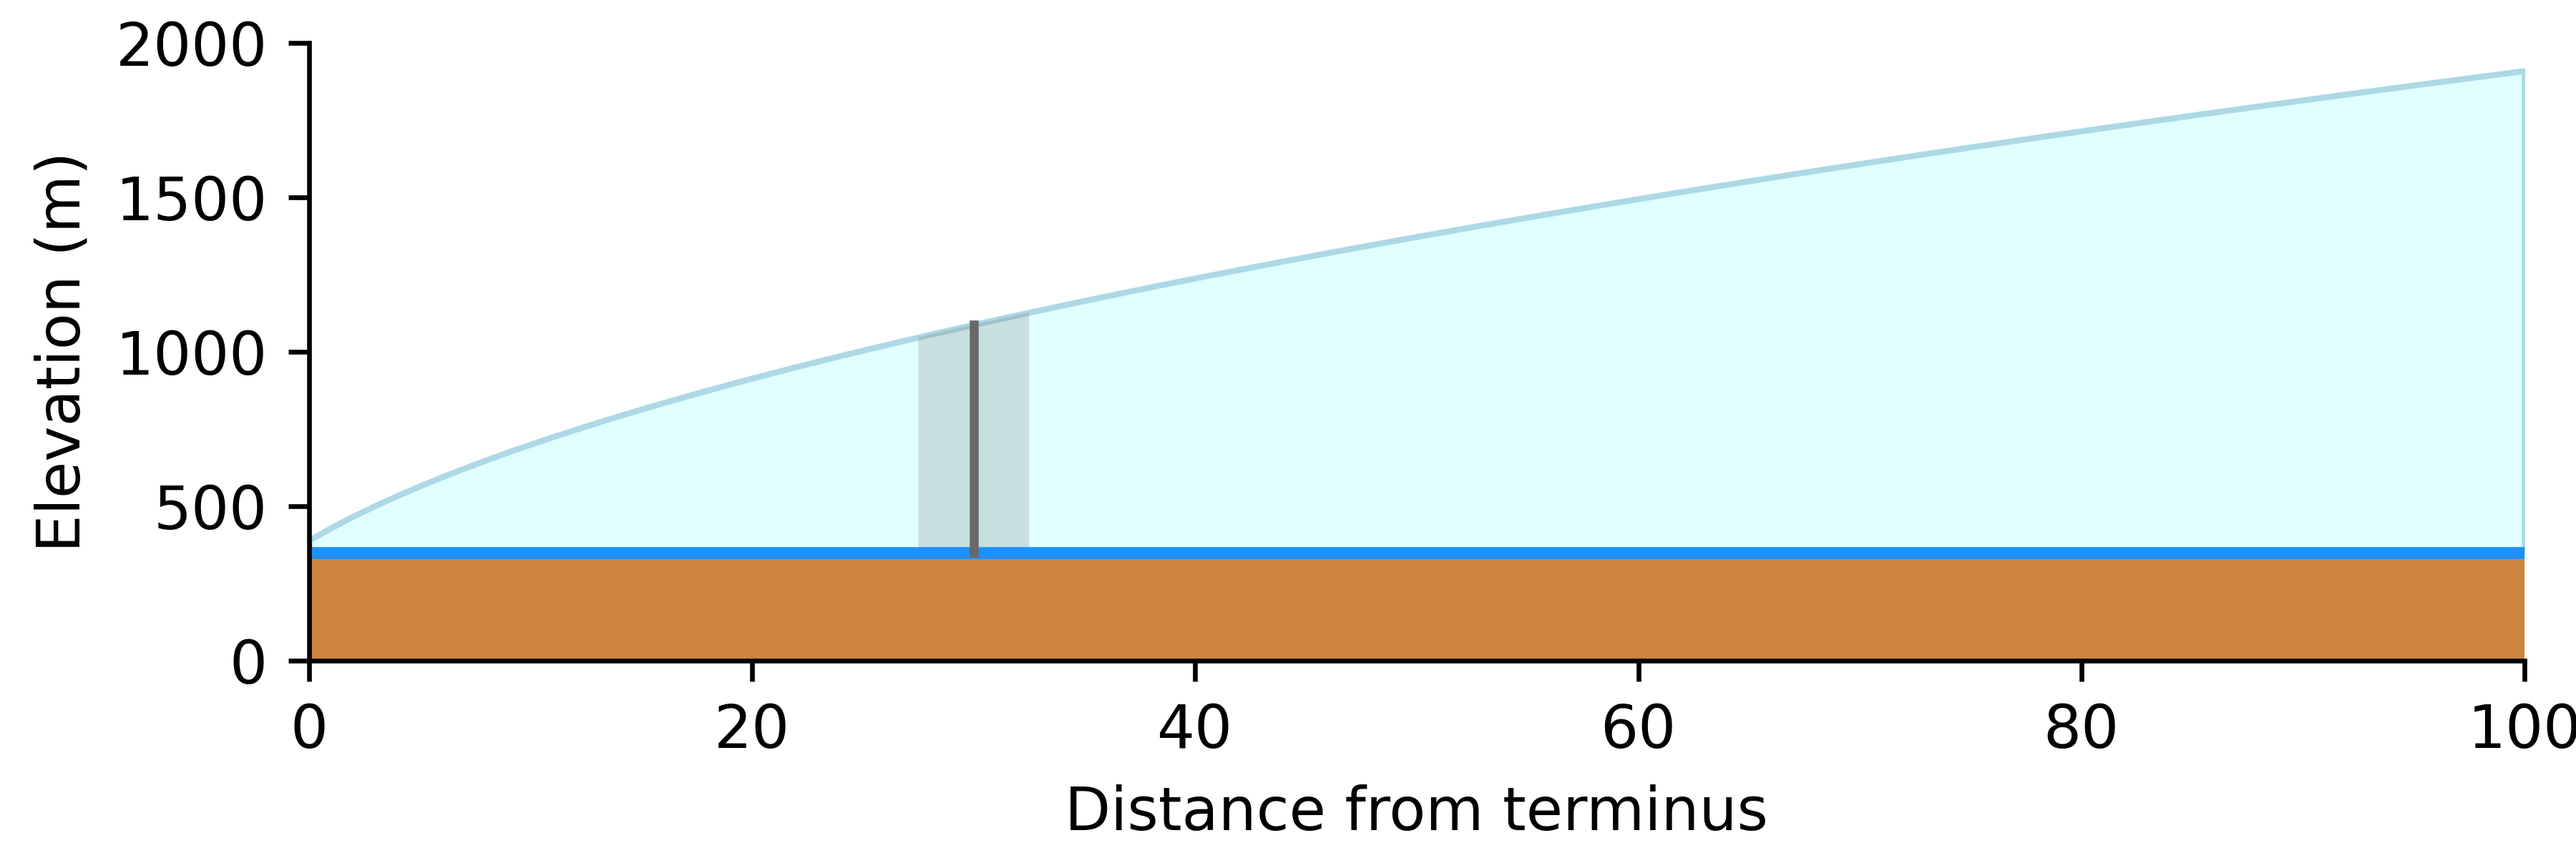
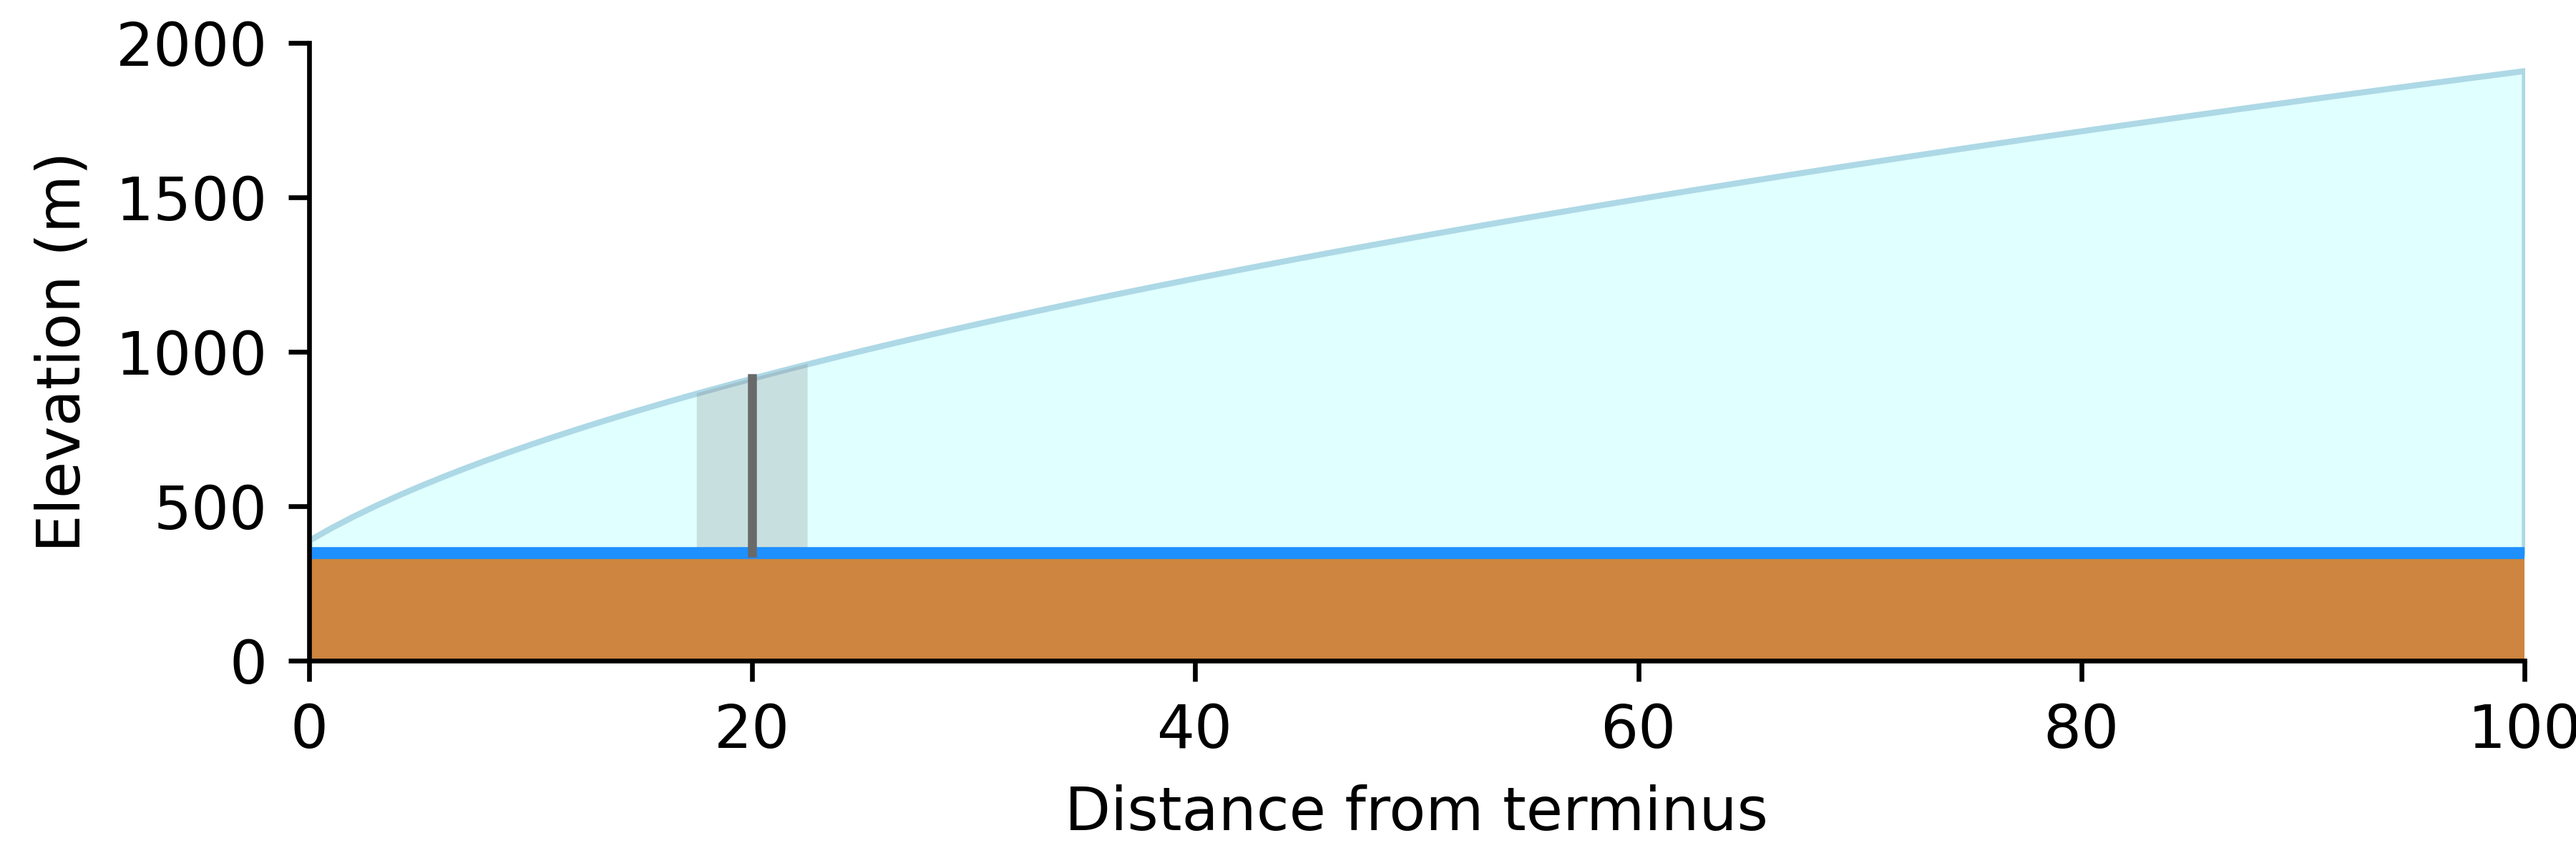
Figure updates

Changed region(s): [[0.3422, 0.37, 0.4044, 0.6475], [0.2489, 0.4317, 0.3111, 0.6475]]

diff --git a/analysis/EASC_research_day/plot_multigrid.py b/analysis/EASC_research_day/plot_multigrid.py
@@ -187,7 +187,7 @@ def plot_pressure_maps_timeseries(fnames, figname, tslice=182,
             line_cmap, vmin=Qmin, vmax=Qmax)
         mapax.add_collection(lc)
 
-        if ii<n_cases:
+        if ii<(n_cases-1):
             mapax.set_xticklabels([])
         
         mapax.text(0.95, 0.95, map_alphabet[ii], transform=mapax.transAxes,
@@ -285,9 +285,9 @@ def plot_pressure_maps_timeseries(fnames, figname, tslice=182,
     
     axs_timeseries[0].set_xticklabels([])
     axs_timeseries[0].set_ylabel(r'$p_{\rm{w}}/p_{\rm{i}}$')
-    axs_timeseries[0].set_ylim([0, 1.5])
+    axs_timeseries[0].set_ylim([0, 1.85])
 
-    axs_timeseries[1].set_xlabel(t_xlabel)
+    # axs_timeseries[1].set_xlabel(t_xlabel)
     axs_timeseries[1].set_ylabel('Temperature ($^\circ$C)')
     axs_timeseries[1].set_ylim([0, 10])
 
@@ -297,7 +297,7 @@ def plot_pressure_maps_timeseries(fnames, figname, tslice=182,
 
 if __name__ == '__main__':
     t_ticks = [1 + 4/12, 1 + 6/12, 1 + 8/12, 1 + 10/12]
-    t_ticklabels = ['4', '6', '8', '10']
+    t_ticklabels = ['May', 'Jul', 'Sep', 'Nov']
     t_lim = [t_ticks[0], t_ticks[-1]]
     t_xlabel = 'Month'
 

diff --git a/analysis/EASC_research_day/plot_simple_timeseries.py b/analysis/EASC_research_day/plot_simple_timeseries.py
@@ -167,7 +167,7 @@ def plot_pressure_maps_timeseries(fnames, figname, tslice=182,
         timeax.text(0.025, 0.95, alphabet[0], transform=timeax.transAxes,
             va='top', ha='left', **text_args)
 
-        timeax.set_ylim([0, 1.5])
+        timeax.set_ylim([0, 1.8])
 
         out.close()
 

diff --git a/analysis/EASC_research_day/plot_bed_ice_profiles.py b/analysis/EASC_research_day/plot_bed_ice_profiles.py
@@ -21,7 +21,7 @@ line_color = 'lightblue'
 figname = 'domain_profile.png'
 figsize=(6, 2)
 
-bands = [15, 30, 70]
+bands = [20]
 band_width = 5
 band_background = [0.5, 0.5, 0.5, 0.25]
 band_color = 'dimgray'
